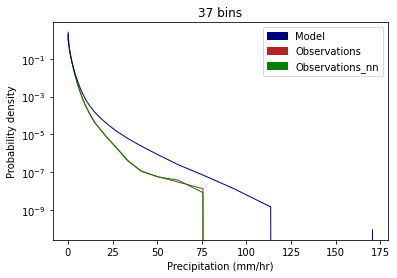
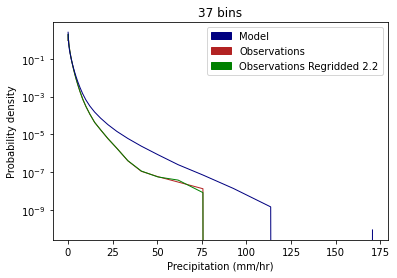
ee.

Changed region(s): [[0.5139, 0.0863, 0.9673, 0.2878]]

diff --git a/RegriddingObservations/TestingRegridding/leeds-at-centre/CombineAllYearsDataAcrossRegion.py b/RegriddingObservations/TestingRegridding/leeds-at-centre/CombineAllYearsDataAcrossRegion.py
@@ -7,28 +7,11 @@ This file loads CEH-GEAR data over the 'Leeds-at-centre' region which is either:
 It creates a numpy array which contains all the values from all the grid cells across all the years of data
 '''
 
-import numpy.ma as ma
-import iris.coord_categorisation
-import iris
-import glob
 import numpy as np
-from numba import jit
 import os
-import geopandas as gpd
-import time 
 import sys
-import iris.quickplot as qplt
-import cartopy.crs as ccrs
-import matplotlib 
 import iris.plot as iplt
-from scipy import spatial
-import itertools
-from shapely.geometry import Point, Polygon
-from pyproj import Proj, transform
-import matplotlib.pyplot as plt
-import pandas as pd
-import tilemapbase
-import matplotlib as mpl
+import datetime
 
 ################################################################
 # Define variables and set up environment
@@ -70,6 +53,19 @@ leeds_gdf = create_leeds_outline({'init' :'epsg:27700'})
 ################################################################   
 cube = create_trimmed_cube(leeds_at_centre_gdf, string, target_crs)
 
+################################################################
+# Create and save array containing a record of all the time stamps
+# which the data values refer to 
+################################################################   
+# Extract the times that the observations refer to
+times = cube.coord('time').points
+# Convert to datetimes
+times = [datetime.datetime.fromtimestamp(x).strftime("%x %X") for x in times]
+
+# Save to file
+basic_filepath= "Outputs/RegriddingObservations/CEH-GEAR_reformatted/leeds-at-centre_data/"
+np.save(basic_filepath + "timestamps.npy", times)  
+                                                                                                                                                                                                                                                                                                                                                                                                                                                                                                                                                                                                                                                                                                                                                                                                                                                                                                                                                                                                                                                                                                                                                                                                                                                                                                                                                                                                                                                                                                                                                                                                                                                                                                                            
 ################################################################
 # Trim even more for testing
 ################################################################

diff --git a/PrecipitationPDFs/leeds-at-centre/CombineAllYearsDataAcrossRegion.py b/PrecipitationPDFs/leeds-at-centre/CombineAllYearsDataAcrossRegion.py
@@ -23,6 +23,11 @@ sys.path.insert(0, root_fp + 'Scripts/UKCP18/SpatialAnalyses')
 from Spatial_plotting_functions import *
 from Spatial_geometry_functions import *
 
+# Create directory to store outputs in
+ddir = "Outputs/Timeseries_UKCP18/leeds-at-centre/{}/".format(em)
+if not os.path.isdir(ddir):
+    os.mkdir(ddir)
+
 ############################################
 # Define variables and set up environment
 #############################################
@@ -32,7 +37,7 @@ region = 'UK' #['Northern', 'leeds-at-centre', 'UK']
 stats = ['jja_max', 'jja_mean', 'jja_p95', 'jja_p97', 'jja_p99', 'jja_p99.5', 'jja_p99.75', 'jja_p99.9']
 
 yrs_range = "1980_2001" 
-ems = ['15']
+ems = ['01', '04', '05', '06', '07', '08', '09', '10', '11', '12', '13', '15']
 
 ##################################################################
 # Load necessary spatial data
@@ -73,22 +78,27 @@ for em in ems:
                          
     # Remove ensemble member dimension
     model_cube = model_cube[0,:,:,:]
-                    
+
     ################################################################
     # Cut the cube to the extent of GDF surrounding Leeds  
     ################################################################
     model_cube = trim_to_bbox_of_region_obs(model_cube, leeds_at_centre_gdf)
     
     ################################################################
+    # Once across all ensemble members, save a numpy array storing
+    # the timestamps to which the data refer
+    ################################################################          
+    if em == '01':
+        times = model_cube.coord('yyyymmddhh').points
+        # Convert to datetime - doesnt work due to 30 days in Feb
+        #times = [datetime.datetime.strptime(x, "%Y%m%d%H") for x in times]
+        np.save(ddir + "timestamps.npy", times) 
+    
+    
+    ################################################################
     # Create a numpy array containing all the precipitation values from across
     # all 20 years of data and all positions in the cube
     ################################################################
-
-    # Create directory to store outputs in
-    ddir = "Outputs/Timeseries_UKCP18/leeds-at-centre/{}/".format(em)
-    if not os.path.isdir(ddir):
-        os.mkdir(ddir)
-    
     # Define length of variables defining spatial positions
     lat_length= model_cube.shape[1]
     lon_length= model_cube.shape[2]

diff --git a/PrecipitationPDFs/leeds-at-centre/CompareModel_Obs_PDFs.py b/PrecipitationPDFs/leeds-at-centre/CompareModel_Obs_PDFs.py
@@ -47,8 +47,9 @@ leeds_gdf = create_leeds_outline({'init' :'epsg:27700'})
 # Load data
 ################################################################
 # Observations
-observations_nn = np.load("Outputs/RegriddingObservations/CEH-GEAR_regridded_2.2km/NearestNeighbour/leeds-at-centre_data/leeds-at-centre.npy")
+observations_regridded = np.load("Outputs/RegriddingObservations/CEH-GEAR_regridded_2.2km/NearestNeighbour/leeds-at-centre_data/leeds-at-centre.npy")
 observations = np.load("Outputs/RegriddingObservations/CEH-GEAR_reformatted/leeds-at-centre_data/leeds-at-centre.npy")
+
 # Model ensemble members
 leeds_em01 = np.load("Outputs/Timeseries_UKCP18/leeds-at-centre/01/leeds-at-centre.npy")
 leeds_em04 = np.load("Outputs/Timeseries_UKCP18/leeds-at-centre/04/leeds-at-centre.npy")
@@ -72,7 +73,7 @@ leeds_all_ems = np.concatenate([leeds_em01, leeds_em04, leeds_em05, leeds_em06, 
 ################################################################
 # Convert to dataframes
 ################################################################
-observations_nn = pd.DataFrame({"Precipitation (mm/hr)" : observations_nn})
+observations_regridded = pd.DataFrame({"Precipitation (mm/hr)" : observations_regridded})
 observations = pd.DataFrame({"Precipitation (mm/hr)" : observations})
 
 leeds_em01 = pd.DataFrame({"Precipitation (mm/hr)" : leeds_em01})
@@ -95,7 +96,7 @@ leeds_all_ems = pd.DataFrame({"Precipitation (mm/hr)" : leeds_all_ems})
 # ##############################################################################
 my_dict = {}
 my_dict['Observations'] = observations
-my_dict['Observations Regridded'] = observations_nn
+my_dict['Observations Regridded'] = observations_regridded
 
 my_dict['Model'] = leeds_all_ems
 
@@ -117,7 +118,7 @@ my_dict['EM15'] = leeds_em15
 ##############################################################################
 cols_dict = {'Observations' : 'firebrick',
              'Observations Regridded' : 'green',
-             'Model' : 'yellow'}
+             'Model' : 'navy'}
 
              'EM01': "navy",
              'EM04': 'navy',
@@ -134,7 +135,7 @@ cols_dict = {'Observations' : 'firebrick',
 
 x_axis = 'linear'
 y_axis = 'log'
-bin_nos =25
+bin_nos =40
 bins_if_log_spaced= bin_nos
 
 # Equal spaced   

diff --git a/RegriddingObservations/Regridding_functions.py b/RegriddingObservations/Regridding_functions.py
@@ -334,7 +334,7 @@ def create_trimmed_cube(leeds_at_centre_gdf, string, target_crs):
     ################################################################
     # 
     ################################################################  
-    filenames=glob.glob('Outputs/CEH-GEAR' +string + 'CEH-GEAR-1hr_*')
+    filenames=glob.glob('Outputs/RegriddingObservations/CEH-GEAR' +string + 'CEH-GEAR-1hr_*')
     monthly_cubes_list = iris.load(filenames,'rainfall_amount')
     
     # Concatenate the cubes into one
